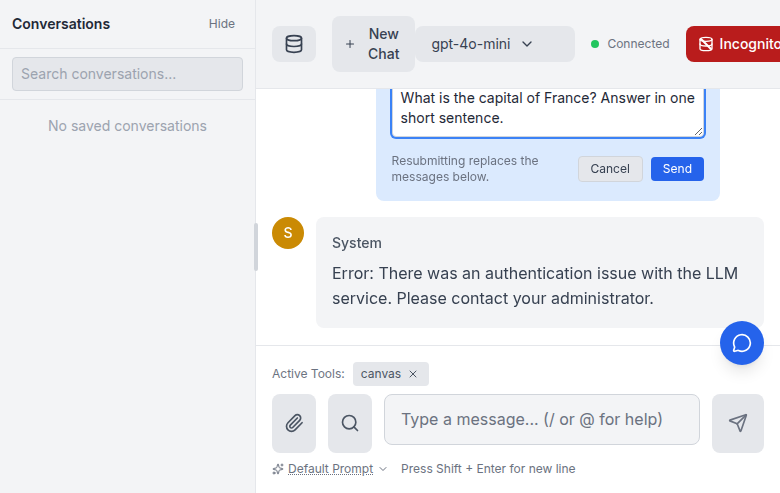
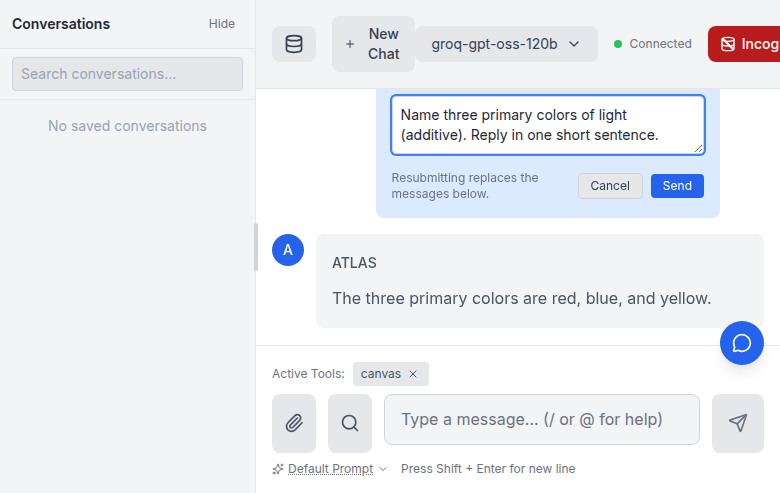
docs(#142): replace rewind screenshots with a real LLM generate -> edit -> regenerate sequence

diff --git a/docs/rewind-edit/README.md b/docs/rewind-edit/README.md
@@ -31,22 +31,32 @@ current response first.
 ## Walkthrough
 
 The screenshots below were captured against a live server (`atlas/main.py`)
-driving the built frontend through a browser.
+driving the built frontend through a browser, with a real LLM
+(`groq-gpt-oss-120b`) answering.
 
-### 1. The edit affordance
+### 1. A real answer, with the edit affordance
 
-Hovering a user message reveals a subtle pencil button beside the existing copy
-button (both stay hidden until hover).
+After the model replies ("...red, blue, and yellow."), hovering the user
+message reveals a subtle pencil button beside the existing copy button (both
+stay hidden until hover).
 
 ![Edit affordance on hover](screenshots/142-01-edit-affordance.png)
 
-### 2. Inline editor
+### 2. Edit the prompt in place
 
 Clicking the pencil swaps the message for an inline editor prefilled with the
-original text. A helper line spells out that resubmitting replaces the messages
-below; **Send** resubmits, **Cancel** / **Esc** backs out.
+original text. Here the prompt is changed to ask about the *additive* primary
+colors of light. A helper line spells out that resubmitting replaces the
+messages below; **Send** resubmits, **Cancel** / **Esc** backs out.
 
-![Inline editor](screenshots/142-02-inline-editor.png)
+![Inline editor with an edited prompt](screenshots/142-02-inline-editor.png)
+
+### 3. Resubmitted — fresh answer in place of the old one
+
+The old turn is gone and the model answers the edited prompt
+("...red, green, and blue."), leaving a single linear thread.
+
+![New answer after rewind](screenshots/142-03-after-rewind.png)
 
 ## How it works
 